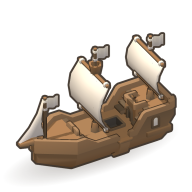
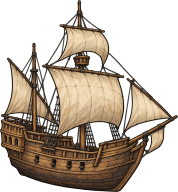
Map units: fleets are the owner's ship drawings too
A lone ship for a fleet of up to 4, the group from 5, the realm's banner flying from
the tallest mast (found by the build script). The soldier and ship pipeline is now
scripts/build-units.ts (npm run units:build) writing ui/map/unitArt.ts; the 3D ship and
the Kenney kit are gone from build-models, which now renders only the forts.

Claude-Session: https://claude.ai/code/session_016oajnQXBVruzpmGmUiWZh2

diff --git a/crowns-of-europe/src/ui/map/MapView.tsx b/crowns-of-europe/src/ui/map/MapView.tsx
@@ -24,7 +24,7 @@ import { MAP_STYLES, type Ink, type MapStyle, type MapStyleId } from './styles';
 import { onMapTap } from './tap';
 import { PAINTING } from './paintingTiles';
 import { terrainCache, terrainStats } from './terrainCache';
-import { TROOP_ART, type TroopArt } from './troopArt';
+import { SHIP_ART, TROOP_ART, type ShipArt, type TroopArt } from './unitArt';
 import { flagBody } from '../components/Flag';
 import { decodedBytes, famousMountains, neighbours, pickLevel, tilesToDraw, webZoom } from './terrainLayer';
 import { TERRAIN_LEVELS, TERRAIN_REGION, TERRAIN_SEA_SHADE } from './terrainTiles';
@@ -1054,7 +1054,8 @@ const UnitLayer = memo(function UnitLayer({ cam, w, h, s, selection }: { cam: Ca
           if (c.kind === 'fleet') {
             const f = s.fleets[c.id];
             if (!f) return null;
-            return <Token key={c.id} x={X} y={Y} figure="ship" nation={f.owner} n={f.ships.galley + f.ships.warship + f.ships.transport} color={nationColor(f.owner)} mine={f.owner === s.player} sel={selFleet?.id === f.id} moving={f.path.length > 0} scale={ts} />;
+            const ships = f.ships.galley + f.ships.warship + f.ships.transport;
+            return <Token key={c.id} x={X} y={Y} figure={shipArt(ships)} nation={f.owner} n={ships} color={nationColor(f.owner)} mine={f.owner === s.player} sel={selFleet?.id === f.id} moving={f.path.length > 0} scale={ts} />;
           }
           const a = s.armies[c.id] as Army | undefined;
           if (!a) return null;
@@ -1081,15 +1082,17 @@ const UnitLayer = memo(function UnitLayer({ cam, w, h, s, selection }: { cam: Ca
 });
 
 /**
- * What stands on each token. An army is one of the owner's drawings (art/troops, made ready by
- * scripts/build-troops.ts): a lone soldier for a small army (one of two, by the army), four men from SQUAD regiments,
- * five from HOST; all TROOP_H points tall at play zoom, standing on the base. A fleet is a ship rendered from a free 3D
- * model (scripts/build-models.mjs, credits in assets/units/CREDITS.md); `feet`: where it floats in its picture (a share
- * of its height), `size`: how big it is drawn (points).
+ * What stands on each token: one of the owner's drawings (art/troops, art/ships, made ready by scripts/build-units.ts).
+ * An army is a lone soldier when small (one of two, by the army), four men from SQUAD regiments, five from HOST, all
+ * TROOP_H points tall at play zoom, standing on the base; a fleet is a lone ship, or several from FLEET ships
+ * (SHIP_H points tall), riding a little low on its base.
  */
 const TROOP_H = 36;
 const SQUAD = 4;
 const HOST = 10;
+const FLEET = 5;
+const SHIP_H: Record<ShipArt, number> = { ship: 34, fleet: 31 };
+export const shipArt = (ships: number): ShipArt => (ships >= FLEET ? 'fleet' : 'ship');
 export function troopArt(id: string, regs: number): TroopArt {
   if (regs >= HOST) return 'squad-5';
   if (regs >= SQUAD) return 'squad-4';
@@ -1097,7 +1100,6 @@ export function troopArt(id: string, regs: number): TroopArt {
   for (let i = 0; i < id.length; i++) h = (h * 31 + id.charCodeAt(i)) | 0;
   return h & 1 ? 'soldier-b' : 'soldier-a';
 }
-const SHIP = { src: require('../../../assets/units/ship.png'), feet: 178 / 192, size: 40 };
 /** A region's fort, beside its name: a lone tower at level 1, a castle from level 2. `wide`: how much of its picture's
  * width the building takes. */
 const FORT = {
@@ -1144,28 +1146,28 @@ function BannerDefs() {
  * (x, y) is the token's point (screen points). Your own units' bases have a light rim, the selected one a gold one
  * and a glow; a gold dot at the base's left means it is on the move.
  */
-function Token({ x, y, figure, nation, n, color, mine, sel, moving, faded, scale }: { x: number; y: number; figure: TroopArt | 'ship'; nation: string; n: number; color: string; mine: boolean; sel: boolean; moving: boolean; faded?: boolean; scale: number }) {
+function Token({ x, y, figure, nation, n, color, mine, sel, moving, faded, scale }: { x: number; y: number; figure: TroopArt | ShipArt; nation: string; n: number; color: string; mine: boolean; sel: boolean; moving: boolean; faded?: boolean; scale: number }) {
   const label = `${n}`;
   const pw = 10 + 6.4 * label.length;
   let fig: { src: number; x: number; y: number; w: number; h: number };
-  let figTop: number; // the top of what is drawn
   let poleX: number;
   let poleFoot: number;
-  if (figure === 'ship') {
-    const top = BASE_Y + 1 - SHIP.size * SHIP.feet;
-    fig = { src: SHIP.src, x: -SHIP.size / 2, y: top, w: SHIP.size, h: SHIP.size };
-    figTop = top + 4; // the mastheads
-    poleX = 4;
-    poleFoot = figTop + 12;
+  if (figure === 'ship' || figure === 'fleet') {
+    // The banner flies from the tallest mast's top.
+    const art = SHIP_ART[figure];
+    const h = SHIP_H[figure];
+    const w = (h * art.w) / art.h;
+    fig = { src: art.src, x: -w / 2, y: BASE_Y + 3 - h, w, h };
+    poleX = fig.x + art.mast * w;
+    poleFoot = fig.y + 4;
   } else {
     const art = TROOP_ART[figure];
     const w = (TROOP_H * art.w) / art.h;
     fig = { src: art.src, x: -w / 2, y: BASE_Y + 1 - TROOP_H, w, h: TROOP_H };
-    figTop = fig.y;
     poleX = Math.max(3.5, w * 0.28);
     poleFoot = BASE_Y - 1;
   }
-  const poleTop = figTop - BANNER_RISE;
+  const poleTop = fig.y - BANNER_RISE;
   return (
     <G transform={`translate(${x} ${y}) scale(${scale})${sel ? ' scale(1.12)' : ''}`} opacity={faded ? 0.55 : 1}>
       {sel ? <Ellipse cx={0} cy={BASE_Y + 1} rx={BASE_RX + 7} ry={BASE_RY + 4} fill="rgba(236,208,143,0.35)" stroke="#ecd08f" strokeWidth={1} /> : null}

diff --git a/crowns-of-europe/scripts/build-units.ts b/crowns-of-europe/scripts/build-units.ts
@@ -1,30 +1,40 @@
 /**
- * Makes the owner's troop drawings (art/troops) ready for the map: each is cut to what is drawn and made smaller
- * (area-averaged, in premultiplied colour), written to assets/units/<name>.png, and listed with its size in
- * src/ui/map/troopArt.ts, which MapView's army tokens draw from.
+ * Makes the owner's unit drawings ready for the map: the soldiers (art/troops) and the ships (art/ships). Each is cut
+ * to what is drawn and made smaller (area-averaged, in premultiplied colour), written to assets/units/<name>.png, and
+ * listed with its size in src/ui/map/unitArt.ts, which MapView's army and fleet tokens draw from. For a ship it also
+ * notes where its tallest mast stands (`mast`, a share of its width), so the realm's banner flies from it.
  *
- *   npx tsx scripts/build-troops.ts        (npm run troops:build)
+ *   npx tsx scripts/build-units.ts        (npm run units:build)
  */
 import fs from 'node:fs';
 import path from 'node:path';
 import { PNG } from 'pngjs';
 
 const ROOT = path.resolve(__dirname, '..');
-const ART_DIR = path.join(ROOT, 'art/troops');
 const OUT_DIR = path.join(ROOT, 'assets/units');
-const OUT_TS = path.join(ROOT, 'src/ui/map/troopArt.ts');
-/** Pixels, the figure's height: enough for the tallest token (about 55 points at the closest zoom) on a 3x screen. */
+const OUT_TS = path.join(ROOT, 'src/ui/map/unitArt.ts');
+/** Pixels, a figure's height: enough for the tallest token (about 60 points at the closest zoom) on a 3x screen. */
 const HEIGHT = 192;
 
-const ART = [
+const TROOPS = [
   { name: 'soldier-a', what: 'a lone halberdier' },
   { name: 'soldier-b', what: 'a lone halberdier, slashed sleeves' },
   { name: 'squad-4', what: 'four pikemen' },
   { name: 'squad-5', what: 'five men, pikes and a halberd' },
 ] as const;
+const SHIPS = [
+  { name: 'ship', what: 'a lone ship' },
+  { name: 'fleet', what: 'five ships' },
+] as const;
 
-function bake(name: string): { w: number; h: number } {
-  const src = PNG.sync.read(fs.readFileSync(path.join(ART_DIR, `${name}.png`)));
+interface Baked {
+  w: number;
+  h: number;
+  mast: number;
+}
+
+function bake(dir: string, name: string): Baked {
+  const src = PNG.sync.read(fs.readFileSync(path.join(ROOT, dir, `${name}.png`)));
   // What is drawn: the bounds of everything not transparent. The bottom is where the figure stands.
   let x0 = src.width, y0 = src.height, x1 = 0, y1 = 0;
   for (let y = 0; y < src.height; y++)
@@ -37,6 +47,14 @@ function bake(name: string): { w: number; h: number } {
       }
   const cw = x1 - x0;
   const ch = y1 - y0;
+  // The top of the tallest part (a ship's mainmast): the middle of the drawn pixels in the top row.
+  let sx = 0, n = 0;
+  for (let x = x0; x < x1; x++)
+    if (src.data[(y0 * src.width + x) * 4 + 3] > 8) {
+      sx += x;
+      n++;
+    }
+  const mast = (sx / n + 0.5 - x0) / cw;
   const oh = Math.min(HEIGHT, ch);
   const ow = Math.round((cw * oh) / ch);
   const acc = new Float64Array(ow * oh * 4); // r, g, b (premultiplied), alpha; each output pixel's weights sum to 1
@@ -67,21 +85,29 @@ function bake(name: string): { w: number; h: number } {
   for (let p = 0; p < ow * oh; p++) {
     const a = acc[p * 4 + 3];
     out.data[p * 4 + 3] = Math.round(Math.min(1, a) * 255);
-    for (let c = 0; c < 3; c++) out.data[p * 4 + c] = a > 0 ? Math.round(Math.min(255, acc[p * 4 + c] / acc[p * 4 + 3])) : 0;
+    for (let c = 0; c < 3; c++) out.data[p * 4 + c] = a > 0 ? Math.round(Math.min(255, acc[p * 4 + c] / a)) : 0;
   }
   fs.writeFileSync(path.join(OUT_DIR, `${name}.png`), PNG.sync.write(out, { colorType: 6 }));
-  return { w: ow, h: oh };
+  return { w: ow, h: oh, mast };
 }
 
-const sizes = ART.map(a => bake(a.name));
+const troops = TROOPS.map(a => bake('art/troops', a.name));
+const ships = SHIPS.map(a => bake('art/ships', a.name));
+const src = (name: string) => `require('../../../assets/units/${name}.png')`;
 fs.writeFileSync(
   OUT_TS,
-  `// Generated by scripts/build-troops.ts from art/troops (the owner's drawings). Do not edit; run npm run troops:build.
+  `// Generated by scripts/build-units.ts from art/troops and art/ships (the owner's drawings). Do not edit; run
+// npm run units:build.
 /** The army figures: each picture's size in pixels; the figure stands on its bottom edge. */
 export const TROOP_ART = {
-${ART.map((a, i) => `  '${a.name}': { src: require('../../../assets/units/${a.name}.png'), w: ${sizes[i].w}, h: ${sizes[i].h} }, // ${a.what}`).join('\n')}
+${TROOPS.map((a, i) => `  '${a.name}': { src: ${src(a.name)}, w: ${troops[i].w}, h: ${troops[i].h} }, // ${a.what}`).join('\n')}
 } as const;
 export type TroopArt = keyof typeof TROOP_ART;
+/** The fleet figures, the same way; \`mast\`: where the tallest mast's top is, as a share of the width from the left. */
+export const SHIP_ART = {
+${SHIPS.map((a, i) => `  '${a.name}': { src: ${src(a.name)}, w: ${ships[i].w}, h: ${ships[i].h}, mast: ${ships[i].mast.toFixed(3)} }, // ${a.what}`).join('\n')}
+} as const;
+export type ShipArt = keyof typeof SHIP_ART;
 `,
 );
-console.log(ART.map((a, i) => `${a.name} ${sizes[i].w}x${sizes[i].h}`).join(', '));
+console.log([...TROOPS, ...SHIPS].map((a, i) => { const b = [...troops, ...ships][i]; return `${a.name} ${b.w}x${b.h}`; }).join(', '));

diff --git a/crowns-of-europe/src/ui/game/Menu.tsx b/crowns-of-europe/src/ui/game/Menu.tsx
@@ -542,7 +542,7 @@ function Settings() {
       </Section>
       <Section
         title="About"
-        help={`Map data © Natural Earth (public domain); relief from the Terrain Tiles on AWS Open Data (ETOPO1, GMTED2010, SRTM; public domain); land colours from the NASA Blue Marble (public domain). Illustrated terrain: elevation from NOAA ETOPO 2022 (public domain); land cover © ESA WorldCover project 2021 / contains modified Copernicus Sentinel data (2021) processed by ESA WorldCover consortium (CC BY 4.0); rivers and lakes from Natural Earth (public domain). Lettering: Cinzel and IM Fell English (SIL Open Font License). ${GLYPH_CREDIT} Ships and forts rendered from 3D models by Kay Lousberg (KayKit) and Kenney (CC0). Troop and mountain drawings made for the game. History, nations and rulers are public domain.`}
+        help={`Map data © Natural Earth (public domain); relief from the Terrain Tiles on AWS Open Data (ETOPO1, GMTED2010, SRTM; public domain); land colours from the NASA Blue Marble (public domain). Illustrated terrain: elevation from NOAA ETOPO 2022 (public domain); land cover © ESA WorldCover project 2021 / contains modified Copernicus Sentinel data (2021) processed by ESA WorldCover consortium (CC BY 4.0); rivers and lakes from Natural Earth (public domain). Lettering: Cinzel and IM Fell English (SIL Open Font License). ${GLYPH_CREDIT} Forts rendered from 3D models by Kay Lousberg (KayKit, CC0). Troop, ship and mountain drawings made for the game. History, nations and rulers are public domain.`}
       >
         <T v="small">
           Crowns of Europe · {s.settings.difficulty} difficulty{s.settings.ironman ? ' · ironman' : ''}

diff --git a/crowns-of-europe/tests/map.test.ts b/crowns-of-europe/tests/map.test.ts
@@ -4,7 +4,7 @@ import { MAP } from '../src/sim/content';
 import { newGame } from '../src/sim/state';
 import { K_MAX, clampView, rubber, rubberZoom } from '../src/ui/map/camera';
 import { COAST_CELLS, MAP_H, MAP_W, lineCells, nationArcs } from '../src/ui/map/geometry';
-import { TROOP_ART } from '../src/ui/map/troopArt';
+import { SHIP_ART, TROOP_ART } from '../src/ui/map/unitArt';
 
 describe('the map beyond the known world', () => {
   test('the lands past the edges are drawn but lie outside the play window', () => {
@@ -178,9 +178,11 @@ describe('baked map pictures', () => {
     }
   });
 
-  test('the troop figures are built from the owner\'s drawings at the sizes the map is told', () => {
-    for (const [name, art] of Object.entries(TROOP_ART)) {
-      expect(fs.existsSync(path.join(__dirname, `../art/troops/${name}.png`))).toBe(true);
+  test('the army and fleet figures are built from the owner\'s drawings at the sizes the map is told', () => {
+    const figures: [string, { w: number; h: number }][] = [...Object.entries(TROOP_ART).map(([n, a]): [string, { w: number; h: number }] => [`troops/${n}`, a]), ...Object.entries(SHIP_ART).map(([n, a]): [string, { w: number; h: number }] => [`ships/${n}`, a])];
+    for (const [file, art] of figures) {
+      const name = file.split('/')[1];
+      expect(fs.existsSync(path.join(__dirname, `../art/${file}.png`))).toBe(true);
       expect(size(path.join(__dirname, `../assets/units/${name}.png`))).toEqual([art.w, art.h]);
       expect(art.h).toBe(192); // tall enough for the closest zoom on a 3x screen
     }

diff --git a/crowns-of-europe/src/ui/map/unitArt.ts b/crowns-of-europe/src/ui/map/unitArt.ts
@@ -1,4 +1,5 @@
-// Generated by scripts/build-troops.ts from art/troops (the owner's drawings). Do not edit; run npm run troops:build.
+// Generated by scripts/build-units.ts from art/troops and art/ships (the owner's drawings). Do not edit; run
+// npm run units:build.
 /** The army figures: each picture's size in pixels; the figure stands on its bottom edge. */
 export const TROOP_ART = {
   'soldier-a': { src: require('../../../assets/units/soldier-a.png'), w: 81, h: 192 }, // a lone halberdier
@@ -7,3 +8,9 @@ export const TROOP_ART = {
   'squad-5': { src: require('../../../assets/units/squad-5.png'), w: 148, h: 192 }, // five men, pikes and a halberd
 } as const;
 export type TroopArt = keyof typeof TROOP_ART;
+/** The fleet figures, the same way; `mast`: where the tallest mast's top is, as a share of the width from the left. */
+export const SHIP_ART = {
+  'ship': { src: require('../../../assets/units/ship.png'), w: 178, h: 192, mast: 0.445 }, // a lone ship
+  'fleet': { src: require('../../../assets/units/fleet.png'), w: 253, h: 192, mast: 0.327 }, // five ships
+} as const;
+export type ShipArt = keyof typeof SHIP_ART;

diff --git a/crowns-of-europe/CLAUDE.md b/crowns-of-europe/CLAUDE.md
@@ -23,10 +23,10 @@ a Mercator map, light tutorial, no audio yet).
 - **Original text only.** No other game's wording, art or mechanic names. Free art under an open licence is fine
   with credit: the emblems are game-icons.net glyphs (CC BY 3.0, Lorc and Delapouite), listed in
   `scripts/build-icons.ts` and credited in the README and Settings > About; add any new one there and run
-  `npm run icons:build` (never hand-edit `ui/components/gameIcons.ts`). The ships and forts are rendered from CC0
-  3D models (KayKit, Kenney) by `npm run models:build` (credits in `assets/units/CREDITS.md`); the troop drawings in
-  `art/troops` and the mountain drawings in `art/mountains` were made for the game by its owner. Player-facing text
-  says prosperity, levies, order, renown, leverage, army limit, integrated and exports (alongside Threat, Claim, Era, coalition,
+  `npm run icons:build` (never hand-edit `ui/components/gameIcons.ts`). The forts are rendered from CC0 3D models
+  (KayKit) by `npm run models:build` (credits in `assets/units/CREDITS.md`); the troop and ship drawings in
+  `art/troops` and `art/ships` and the mountain drawings in `art/mountains` were made for the game by its owner.
+  Player-facing text says prosperity, levies, order, renown, leverage, army limit, integrated and exports (alongside Threat, Claim, Era, coalition,
   colonists, war exhaustion, policy and mission); the code keeps the old names (`dev`, `manpower`, `stability`,
   `prestige`...). `scripts/check-terms.ts` (in `npm run validate`) enforces it; the glossary is in
   `docs/content-guide.md` and the in-game one in `ui/game/Help.tsx`.
@@ -38,7 +38,7 @@ a Mercator map, light tutorial, no audio yet).
 - **Offline.** No network calls anywhere in `src/`.
 - The map is generated: edit `src/content/regions.json` / `seas.json` (seeds, rivers, straits, lakes, the names of
   the lands beyond the map), then `npm run map:build` and `npm run relief:build`. Never hand-edit `map.json`,
-  `assets/map/`, `assets/units/`, `ui/map/reliefTiles.ts`, `ui/map/terrainSymbols.ts`, `ui/map/troopArt.ts`,
+  `assets/map/`, `assets/units/`, `ui/map/reliefTiles.ts`, `ui/map/terrainSymbols.ts`, `ui/map/unitArt.ts`,
   `ui/map/paintingTiles.ts`, `ui/map/terrainTiles.ts` or `ui/map/terrainVectors.ts`. The builder warns about seeds in the water;
   fix those.
 - **Science gates progress.** Artillery, galleons, colonies (Caravels for the African coast, Ocean Navigation for
@@ -67,11 +67,12 @@ src/ui/        map/ (MapView, styles, camera, colors, geometry, tap, MiniMap, re
                Glass, Flag, BurningShield, Icon, gameIcons), layout, describe
                (plain-English effects and goals), theme
 src/state/     store (game loop, selection, overlays, toasts, play-test hook on window.__coe), storage (saves)
-scripts/       build-map, build-relief, build-terrain (both on lib/geo), build-icons, build-models, build-troops, validate-content, make-icons, screens + screens-war + screens-newworld + screens-terrain (Playwright), serve,
+scripts/       build-map, build-relief, build-terrain (both on lib/geo), build-icons, build-models, build-units, validate-content, make-icons, screens + screens-war + screens-newworld + screens-terrain (Playwright), serve,
                dev/ (soak, trace, ottomans, powers, opening, pan-layers), terrain/ (the Illustrated style's offline tile pipeline, Python)
 tests/         battle, movement, siege, war, colonies, aims, science, ottomans, greatpowers, map, terrain, events, soak (Jest, node)
-art/           source art the builders read: mountains/ (the owner's ink drawings of ranges), troops/ (the owner's
-               soldiers), painting/ (the owner's painting of the world; the 157 MB original is not in git)
+art/           source art the builders read: mountains/ (the owner's ink drawings of ranges), troops/ and ships/
+               (the owner's soldiers and ships), painting/ (the owner's painting of the world; the 157 MB original is
+               not in git)
 assets/        map/ (generated pictures, incl. mountains/), units/ (the troops, ships, forts), fonts, icons
 ```
 
@@ -96,8 +97,9 @@ npm run terrain:build       # then: the drawn terrain (ui/map/terrainSymbols.ts,
                             # same cache and art/mountains
 npm run painting:build      # the Painted style's ground: art/painting/fullmap.png (not in git) fitted to the coasts
                             # and tiled into assets/map/painting (see art/painting/README.md)
-npm run troops:build        # the armies' figures (assets/units/, ui/map/troopArt.ts) from art/troops
-npm run models:build        # the ships and forts (assets/units/) from CC0 3D models (fetched once into
+npm run units:build         # the armies' and fleets' figures (assets/units/, ui/map/unitArt.ts) from art/troops
+                            # and art/ships
+npm run models:build        # the forts (assets/units/) from CC0 3D models (fetched once into
                             # scripts/data/models, git-ignored), rendered with three.js in headless Chromium
 npm run tiles:build         # the Illustrated style's terrain tiles and river/lake vectors (assets/map/terrain,
                             # ui/map/terrainTiles.ts, terrainVectors.ts) from ETOPO 2022, ESA WorldCover and Natural
@@ -115,9 +117,9 @@ native transform (Reanimated); on release the SVG re-renders at the new camera (
 rendered 1.6× the screen size so short pans never show an edge. Units are little figures standing on a base in the
 owner's colour under the realm's banner (its flag, `flagBody`, on a pole), the count on a badge beside it: an army is
 one of the owner's drawings (`art/troops`: a lone soldier for a small army, a squad of four or five for bigger ones,
-`troopArt`), a fleet a ship rendered from a 3D model. Forts are a tower (level 1) or a castle just before the region's
-name; all drawn in one SVG on top. Taps on a unit are measured from the middle of its figure (`TOKEN_MIDDLE`), above
-its point. Only the units the player would know about are drawn, at any zoom, and listed in region sheets
+`troopArt`), a fleet one of their ships (`art/ships`: a lone ship, or several from 5 ships, `shipArt`). Forts are
+a tower (level 1) or a castle just before the region's name; all drawn in one SVG on top. Taps on a unit are
+measured from the middle of its figure (`TOKEN_MIDDLE`), above its point. Only the units the player would know about are drawn, at any zoom, and listed in region sheets
 (`seesUnit` in `sim/queries.ts`): their own, their allies', overlord's and subjects', their enemies' in a war, and
 anyone's in land they own or hold; rebels risen against them.
 Zoomed out (k below `UNITS_K`, where the nation names show) the map is for the realms: no units except a selected

diff --git a/crowns-of-europe/assets/units/CREDITS.md b/crowns-of-europe/assets/units/CREDITS.md
@@ -1,17 +1,17 @@
 # Unit sprites: credits
 
-The armies (`soldier-a.png`, `soldier-b.png`, `squad-4.png`, `squad-5.png`) are the owner's own drawings, made for
-the game (`art/troops`), cut and made smaller by `scripts/build-troops.ts` (`npm run troops:build`).
+The armies (`soldier-a.png`, `soldier-b.png`, `squad-4.png`, `squad-5.png`) and fleets (`ship.png`, `fleet.png`) are
+the owner's own drawings, made for the game (`art/troops`, `art/ships`), cut and made smaller by `scripts/build-units.ts`
+(`npm run units:build`).
 
-The other sprites in this folder are rendered by `scripts/build-models.mjs` (`npm run models:build`) from free 3D models.
+The forts are rendered by `scripts/build-models.mjs` (`npm run models:build`) from free 3D models.
 All of them are public domain under CC0 1.0 (https://creativecommons.org/publicdomain/zero/1.0/): no attribution is
 required, but we credit the authors with thanks. The build script checks each pack's licence file before using it.
 The colours are muted and the outlines and shadows are added by the script.
 
 | Sprite | Model | Author | Source | Licence |
 | --- | --- | --- | --- | --- |
-| `ship.png` | `ship-large` (Pirate Kit) | Kenney | https://kenney.nl/assets/pirate-kit | CC0 1.0 |
 | `castle.png` | `building_castle` (Medieval Hexagon Pack 1.0) | Kay Lousberg (KayKit) | https://kaylousberg.itch.io/kaykit-medieval-hexagon, files from https://github.com/KayKit-Game-Assets/KayKit-Medieval-Hexagon-Pack-1.0 | CC0 1.0 |
 | `castle-small.png` | `building_tower_A` (Medieval Hexagon Pack 1.0) | Kay Lousberg (KayKit) | as for `castle.png` | CC0 1.0 |
 
-Kay Lousberg: www.kaylousberg.com. Kenney: www.kenney.nl.
+Kay Lousberg: www.kaylousberg.com.

diff --git a/crowns-of-europe/README.md b/crowns-of-europe/README.md
@@ -148,9 +148,9 @@ contains modified Copernicus Sentinel data (2021) processed by ESA WorldCover co
 domain). Map lettering: [Cinzel](https://fonts.google.com/specimen/Cinzel) and
 [IM Fell English](https://fonts.google.com/specimen/IM+Fell+English) (SIL Open Font License). History,
 dates, nations and rulers are public domain; all game text is original. Flags are simplified heraldry drawn in
-code. The ships and forts on the map are rendered from free 3D models (CC0) by
-[Kay Lousberg (KayKit)](https://kaylousberg.itch.io/) and [Kenney](https://kenney.nl/) with `npm run models:build`
-(`assets/units/CREDITS.md`). The troop and mountain drawings were made for the game (`art/troops`, `art/mountains`). Icons (coins, helmet,
+code. The forts on the map are rendered from free 3D models (CC0) by
+[Kay Lousberg (KayKit)](https://kaylousberg.itch.io/) with `npm run models:build` (`assets/units/CREDITS.md`). The
+troop, ship and mountain drawings were made for the game (`art/troops`, `art/ships`, `art/mountains`). Icons (coins, helmet,
 scales, laurels, crowns, the fire behind an enemy's arms and the rest of the emblems) by [Lorc](https://lorcblog.blogspot.com/) and
 [Delapouite](https://delapouite.com/) from [game-icons.net](https://game-icons.net/), under
 [CC BY 3.0](https://creativecommons.org/licenses/by/3.0/); `npm run icons:build` copies them in

diff --git a/crowns-of-europe/art/ships/README.md b/crowns-of-europe/art/ships/README.md
@@ -1,0 +1,11 @@
+# Ship drawings
+
+Ships drawn for this game by its owner, used for the fleets on the map. `scripts/build-units.ts` (`npm run units:build`)
+cuts each to what is drawn, makes it smaller (192 px tall) into `assets/units`, notes where its tallest mast stands (the
+realm's banner flies from it), and lists it in `src/ui/map/unitArt.ts`. The map draws the lone ship for a fleet of up to
+4 ships and the group from 5 (`shipArt` in `src/ui/map/MapView.tsx`).
+
+| File | What it is |
+| --- | --- |
+| `ship.png` | a lone ship, three masts |
+| `fleet.png` | five ships sailing together |
